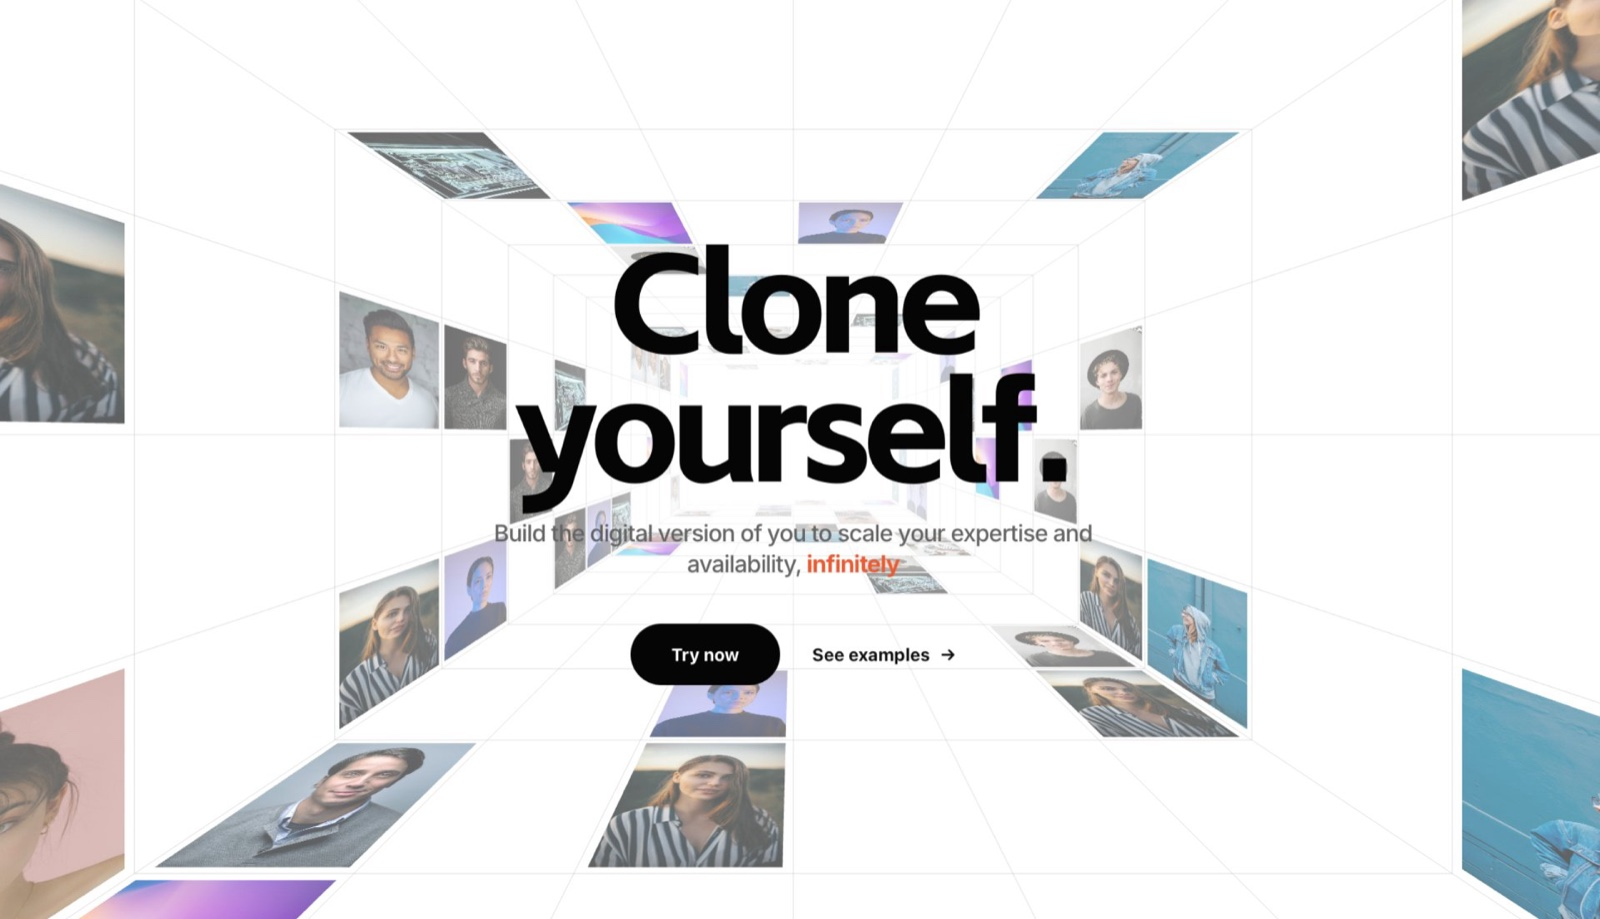
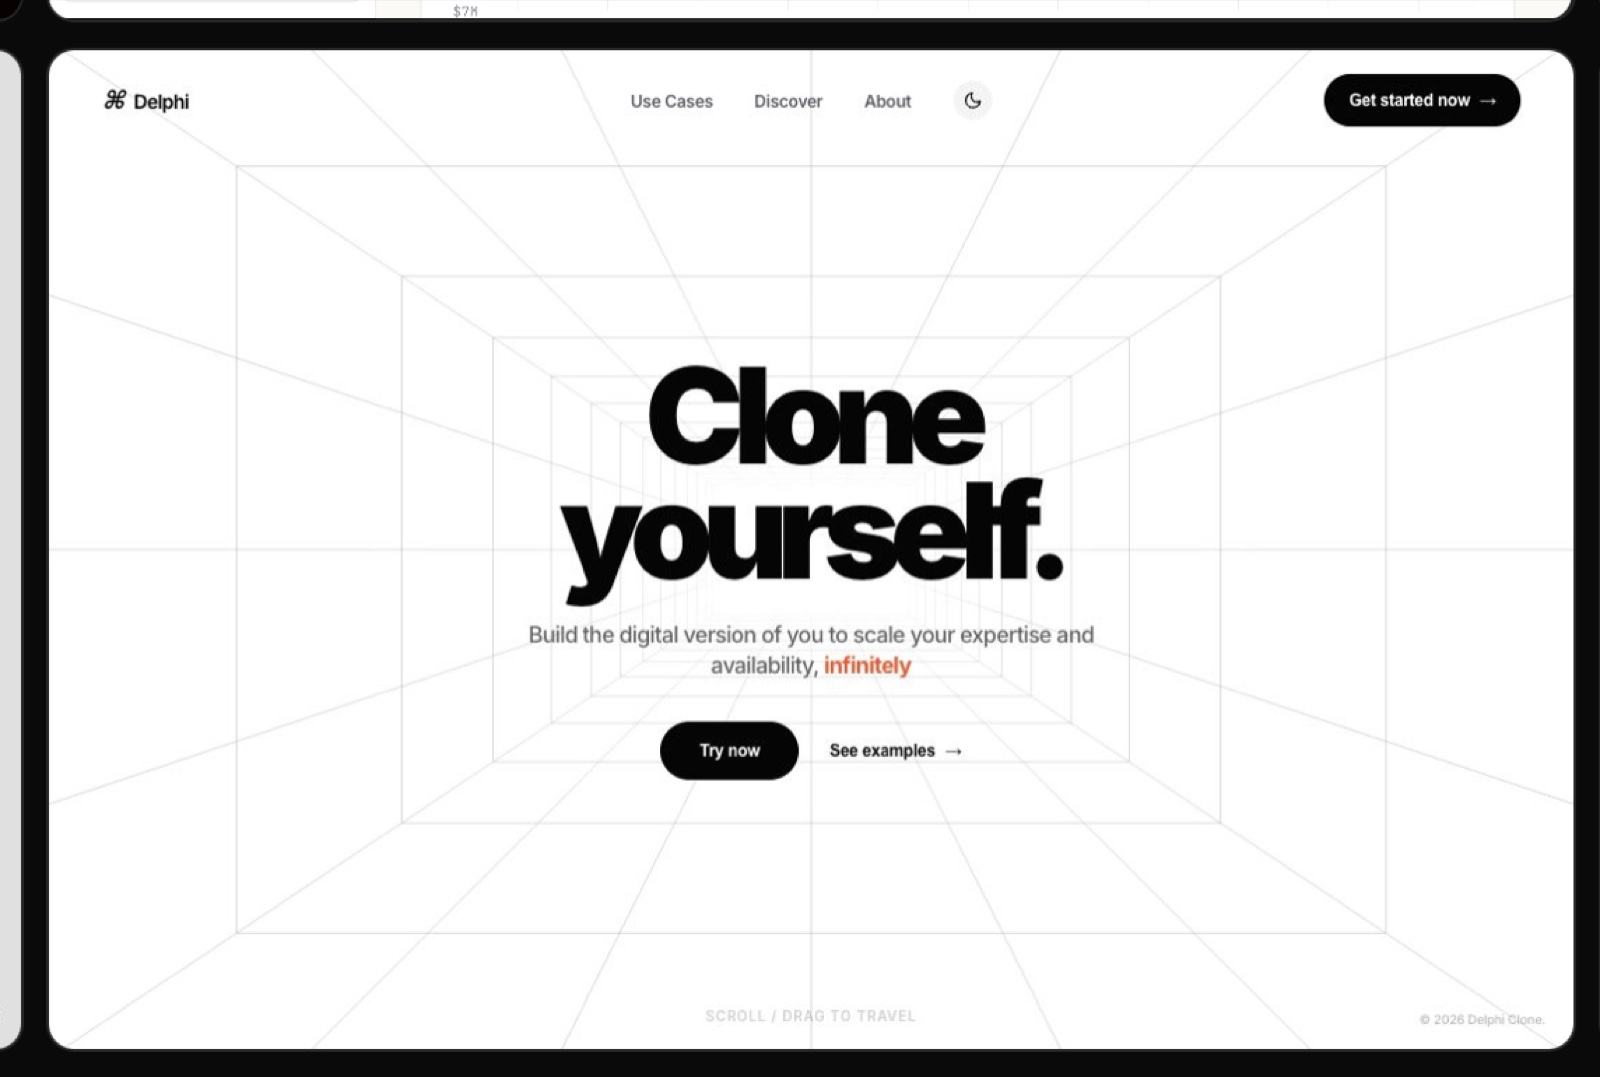
asset(poster): replace delphi-three with detail-shot screenshot + bump POSTER_VERSION→3
karo 提供的 12:39 截图（1144x770，hero 'Clone yourself.' 阿里妈妈数黑体 + 立体几何 grid + Try now / See examples 按钮）是用户点开详情页看到的整体效果。
用这张作为 feed 卡预览图（1600x1077 / 162KB）。

按 DEV_PRINCIPLES.md 第 7 条同步 bump window.POSTER_VERSION '2' → '3'，强制
所有用户立刻拉新图，避免 30 天浏览器缓存。

diff --git a/index.html b/index.html
@@ -5,7 +5,7 @@
 <meta name="viewport" content="width=device-width, initial-scale=1" />
 <title>Design DNA — endless designs, just scroll</title>
 <!-- POSTER 缓存版本：每次替换 posters/*.jpg 时手动 +1，让浏览器立刻拉新图。 -->
-<script>window.POSTER_VERSION = '2';</script>
+<script>window.POSTER_VERSION = '3';</script>
 <!-- JSZip 懒加载：仅在用户点击「下载素材包」时按需注入，避免首屏 100KB CDN 阻塞 -->
 <script>
   window.__loadJSZip = function(){
